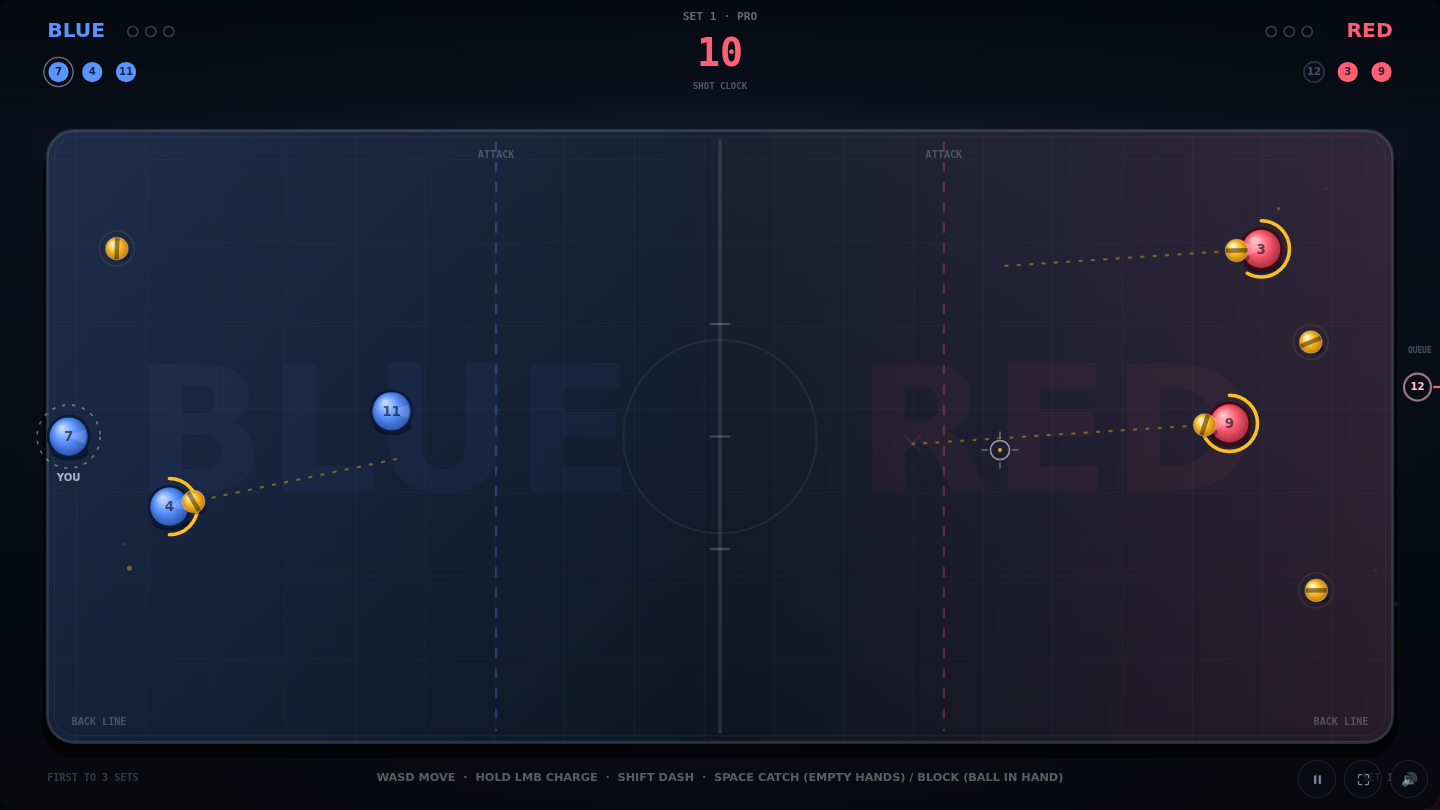
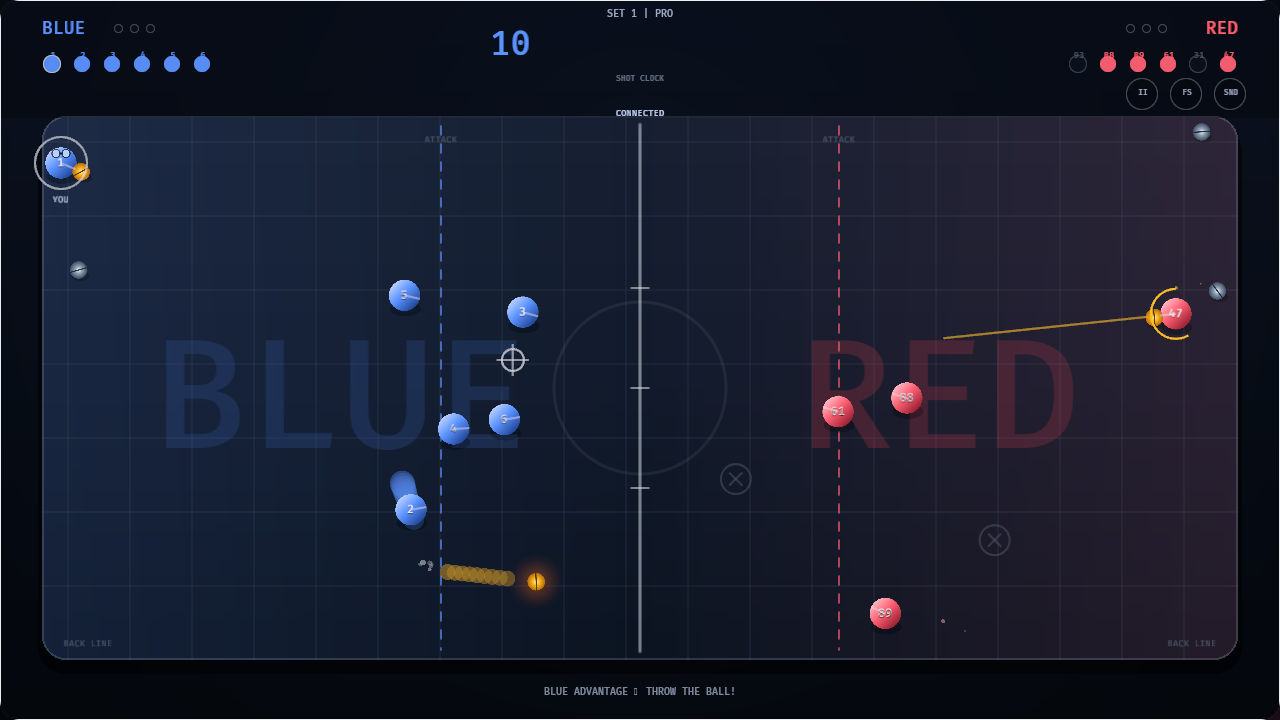
Document the restored audio and refresh the gameplay screenshot
MIGRATION_STATUS.md now records the devenv migration that happened after the
prediction work, the audio implementation, the browser CDP verification and
the remaining device-testing follow-ups. The screenshot is a current Bevy
capture instead of the deleted Canvas client.

diff --git a/MIGRATION_STATUS.md b/MIGRATION_STATUS.md
@@ -1,6 +1,7 @@
 # Rust/Bevy migration status — paused
 
-Last updated: after adding local-player/ball prediction and reconciliation.
+Last updated: after restoring generated sound effects and migrating the dev
+shell to devenv.
 
 ## Goal
 
@@ -26,11 +27,30 @@ SpacetimeDB module in `crates/server`.
 - Added `crates/client-web` — wasm `cdylib` entry.
 - Added `default-members = ["crates/sim", "crates/server"]`.
 - Bumped SpacetimeDB module crate and Rust client SDK to `=2.16.3`.
-- Added native build dependencies to `flake.nix`:
+- Added native build dependencies to the dev shell (`devenv.nix`):
   `pkg-config`, `wayland`, `libxkbcommon`, `openssl`, `systemd`.
 - Updated the Rust workspace release profile to remove the previous
   `strip = "symbols"` wasm-bindgen warning.
 - Updated `pnpm-lock.yaml`; removed the old web `spacetimedb` npm dependency.
+
+### Dev shell / devenv
+
+- Replaced the hand-written `pkgs.mkShell` with `devenv.lib.mkShell`; the shell
+  configuration lives in `devenv.nix` and `nix/spacetime.nix`.
+- `.envrc` uses `use flake . --no-pure-eval` because devenv resolves
+  `devenv.root` from `$PWD`.
+- `services.spacetime` installs the pinned SpacetimeDB CLI/server (2.16.3) and
+  `devenv up` starts a local server on port 3000.
+- Restored `wasm-bindgen-cli` 0.2.130 to the dev shell (it had been dropped in
+  an earlier commit), so `pnpm web:wasm`, `pnpm dev:client` and `pnpm build` work
+  from a clean shell again.
+- Added `alsa-lib` on Linux for native Bevy audio; the desktop CI installs
+  `libasound2-dev` for the same reason.
+- Updated the stale flake description that still mentioned a TypeScript canvas
+  presentation.
+- `scripts/build-web-wasm.sh` now maps `PROFILE=dev` to Cargo's `debug/`
+  directory and no longer requires a manually supplied `WASM_BINDGEN` path when
+  run inside the dev shell.
 
 ### Simulation DTOs
 
@@ -67,6 +87,26 @@ SpacetimeDB module in `crates/server`.
 - Enabled required Bevy features: `keyboard`, `mouse`, `touch`, `png`,
   `bevy_audio` is **not** enabled (see remaining work).
 
+### Audio
+
+- Added `crates/client/src/audio/`:
+  - `synth.rs` renders tones, filtered hiss and exponential envelopes into mono
+    16-bit 44.1 kHz WAV buffers, reproducing the old WebAudio synth;
+  - `voices.rs` defines every game voice from `synth.rs` and pre-renders four
+    loudness variants each for throws and bounces, plus both beep pitches;
+  - `mod.rs` owns the `SoundBank` resource and maps each `SfxEvent` to an
+    `AudioPlayer` spawned with `PlaybackSettings::DESPAWN`.
+- Enabled Bevy `bevy_audio` + `wav` features; no audio files are shipped.
+- `net::read_game_events` now deserialises `game_event.data` as `SfxEvent` and
+  plays it, keeping the existing `DODGEBALL_LOG_EVENTS` debug log.
+- UI button presses play the `ui` clip; toggling mute persists through
+  `platform.rs` and skips all playback, including the headshot call.
+- Browser builds keep the spoken "HEADSHOT" via `speechSynthesis`; native builds
+  play the synth scream only.
+- `apps/web/src/main.ts` tracks every `AudioContext` created by the wasm/rodio
+  backend and resumes suspended contexts on pointer/key gestures, because
+  browsers block audio until the first interaction.
+
 ### Client prediction / netcode
 
 - Added `crates/client/src/predict.rs`:
@@ -84,7 +124,8 @@ SpacetimeDB module in `crates/server`.
 
 ### Browser shell
 
-- `apps/web/src/main.ts` now only initializes wasm and calls
+- `apps/web/src/main.ts` loads the wasm glue dynamically after installing the
+  audio-context tracking patch, then calls
   `start(uri, db, name, muted, autostart)`.
 - Deleted the old TypeScript game renderer/UI/input/online code:
   `apps/web/src/game/` and `apps/web/src/module_bindings/`.
@@ -124,28 +165,46 @@ SpacetimeDB module in `crates/server`.
   original filled-trail look better.
 - Removed temporary web-only UI/frame debug dumps. Intentional debug aids
   remain: `DODGEBALL_AUTOSTART`, `DODGEBALL_SCREENSHOT`, `?autostart=1`,
-  `RUST_LOG=debug`.
+  `DODGEBALL_LOG_EVENTS`, `window.__dodgeball`, `RUST_LOG=debug`.
 
 ### Verification performed
 
-- `cargo test -p dodgeball-sim -p dodgeball-server` — all tests pass.
-- `cargo check -p dodgeball-client -p dodgeball-client-desktop` — passes.
+- `cargo test --workspace` — all tests pass, including 8 client tests for the
+  synth, voice bank and input prediction.
 - `cargo check -p dodgeball-client-web --target wasm32-unknown-unknown` —
-  passes.
+  passes with Bevy audio enabled.
+- `cargo check -p dodgeball-client -p dodgeball-client-desktop` — passes.
+- `apps/web` `tsc --noEmit` — passes once the wasm glue exists (the dev shell
+  now provides the matching `wasm-bindgen`).
+- Dev-profile wasm build + Vite + headless Chromium rendered the menu with the
+  audio plugin initialised (`/tmp/menu-audio.png`). No SpacetimeDB server was
+  running, so the connection showed the expected `ONLINE | ERROR` state.
+- Native builds on this machine needed `NIX_CFLAGS_LINK=` cleared because the
+  host's nix-ld `/usr/lib` symlinks point at glibc 2.42 while the unstable
+  `alsa-lib` needs 2.44. This is a local NixOS environment quirk, not a repo
+  change.
+- `cargo test -p dodgeball-sim -p dodgeball-server` — all tests pass.
 - The new client crates are formatted. Existing simulation files were left in their prior formatting to keep this migration diff focused.
-- `pnpm typecheck` — passes.
+- `pnpm typecheck` — passes with the generated wasm glue present.
 - Native desktop launched against a local SpacetimeDB server and rendered a
   playing match (software Vulkan/llvmpipe in this environment).
 - Browser launched headlessly in Chromium against the local server and rendered
   a playing match.
 - Browser CDP click test successfully started a match.
 - Latest production wasm build:
-  - `apps/web/src/wasm/dodgeball_client_bg.wasm`: ~20.3 MB
-  - Vite gzip report: ~6.3 MB
-  - Vite JS bundle: ~56 KB.
+  - `apps/web/src/wasm/dodgeball_client_bg.wasm`: ~20.7 MB
+  - Vite gzip report: ~6.5 MB
+  - Vite JS bundle: ~58 KB.
+- Audio added roughly 0.4 MB to the wasm bundle and 0.2 MB gzip
+  (`bevy_audio`, `rodio`, `hound`, `cpal`).
 - Latest successful screenshots:
   - native playing match: `/tmp/game4.png`;
-  - browser playing match: `/tmp/web_click_final.png`.
+  - browser playing match: `/tmp/web_click_final.png`;
+  - browser playing match with audio enabled: `/tmp/game-audio-playing.png`;
+  - `docs/screenshot.png` replaced with the 1280x720 Bevy capture.
+- Browser CDP gesture test against a local server: `AudioContext.state` was
+  `suspended` at startup and became `running` after a synthetic click, while the
+  playing match rendered normally.
 
 ### CI / docs
 
@@ -154,36 +213,27 @@ SpacetimeDB module in `crates/server`.
   builds.
 - README rewritten for Rust/Bevy, browser + desktop, 2.16.3, and new commands.
 - Added this status file.
+- Replaced the stale Canvas `docs/screenshot.png` with a current Bevy capture.
 
 ---
 
 ## Remaining work
 
-### 1. Audio (largest feature gap)
+### 1. Audio follow-ups (feature complete)
 
-The old TypeScript WebAudio synth was deleted with the Canvas client. The Bevy
-client currently has **no sound**. The top-bar sound button toggles a resource
-but there is no output.
+The Bevy client now synthesises and plays every `SfxEvent`. Remaining work is
+verification and polish rather than implementation:
 
-Options:
+- confirm sound on a real audio device for native Linux/Windows/macOS;
+- confirm the browser unlock flow in Chrome, Firefox and Safari, including a
+  gesture that happens while the wasm module is still loading;
+- check `speechSynthesis` availability/voice differences for HEADSHOT and
+  decide whether to keep it or bundle a clip;
+- consider a volume control (currently mute/on only) and whether `GlobalVolume`
+  should be used for sounds already playing.
 
-- **Bevy audio + generated WAVs (recommended):**
-  - enable Bevy `bevy_audio` + `wav`;
-  - add `pkgs.alsa-lib` to `flake.nix` / Linux CI;
-  - synthesize small WAV buffers at startup for `throw`, `hit`, `headshot`,
-    `catch`, `block`, `pickup`, `bounce`, `dash`, `beep`, `whistle`,
-    `roundWin`, `roundLose`, `matchWin`, `matchLose`, `ui`;
-  - parse `game_event.data` as `SfxEvent` and spawn `AudioPlayer` entities;
-  - apply mute through a global volume/resource;
-  - browser audio unlock on first pointer/key gesture;
-  - decide whether to keep browser `SpeechSynthesis` for HEADSHOT or ship a
-    short voice clip.
-- Or a platform-specific audio bridge:
-  - web: JS WebAudio;
-  - desktop: `rodio`/`cpal`.
-  This avoids Bevy audio but creates two implementations.
-
-Also update README/top-bar once sound exists or hide/remove the sound control.
+Measured wasm cost of audio: ~20.7 MB total / ~6.5 MB gzip, up from ~20.3 MB /
+~6.3 MB before `bevy_audio`.
 
 ### 2. Real-device / real-GPU testing
 
@@ -232,7 +282,6 @@ Still needed:
 - Check `pnpm check` with the new `rust:check:wasm` package selection.
 - Consider a separate client release profile to keep native Bevy optimized while
   using `opt-level="z"` for wasm.
-- Remove/replace stale `docs/screenshot.png` (still an old Canvas screenshot).
 
 ### 5. Code quality / cleanup
 
@@ -253,7 +302,7 @@ Still needed:
 
 ### 6. Performance / size
 
-- 20.3 MB wasm / 6.3 MB gzip is large. Already enabled only the needed Bevy
+- 20.7 MB wasm / 6.5 MB gzip is large. Already enabled only the needed Bevy
   features, but further pruning may be possible:
   - inspect `cargo tree -e features -p dodgeball-client`;
   - consider removing gizmos if dynamic outlines are moved to sprites;
@@ -288,7 +337,7 @@ cargo test -p dodgeball-sim -p dodgeball-server
 cargo check -p dodgeball-client-web --target wasm32-unknown-unknown
 
 # Browser wasm + Vite
-WASM_BINDGEN=/tmp/wasm-bindgen/bin/wasm-bindgen bash scripts/build-web-wasm.sh
+PROFILE=dev bash scripts/build-web-wasm.sh   # fast local builds; default release
 (cd apps/web && pnpm exec vite build)
 (cd apps/web && pnpm exec vite preview --host 127.0.0.1 --port 4173)
 
@@ -302,7 +351,8 @@ DODGEBALL_AUTOSTART=1 DODGEBALL_SCREENSHOT=/tmp/game.png \
 
 ## Definition of done still to reach
 
-- Sound is restored or intentionally removed from UI/README.
+- Sound is restored; real-device and browser-autoplay verification is still
+  outstanding.
 - Real browser + real desktop input/touch/fullscreen/name editing verified.
 - CI browser and desktop builds are green.
 - No stale Canvas/TypeScript references or dead generated artifacts remain.

diff --git a/README.md b/README.md
@@ -19,11 +19,15 @@ ten-second advantage clock.
 - All game art and UI are rendered by Bevy. There is no Canvas 2D renderer and
   no DOM widget layer.
 - Procedural textures, court art, effects and HUD; zero external art assets.
+- Procedural sound: every effect is synthesised to a WAV buffer at startup, so the
+  game ships with zero audio files.
 - Match/round flow modelled as **ECS state** — a `phase` resource plus a
   transition table.
 - Deterministic, seeded simulation: `cargo test` drives full matches headlessly.
 
-Audio parity is still a follow-up; see [MIGRATION_STATUS.md](MIGRATION_STATUS.md).
+Sound is generated at runtime and the browser unlocks audio on the first
+pointer/key event; see [MIGRATION_STATUS.md](MIGRATION_STATUS.md) for the
+remaining device-testing follow-ups.
 
 ---
 
@@ -148,6 +152,9 @@ Everything visual lives under `crates/client/src`:
 - `render/world.rs` keeps stable sprite entities per player/ball, syncs them
   from the interpolated frame and draws dynamic outlines with Bevy gizmos.
 - `render/effects.rs` pools particles/floaters and applies camera shake.
+- `audio/` synthesises every sound effect as a WAV at startup and plays the
+  simulation's `SfxEvent`s through Bevy audio (the browser adds the spoken
+  "HEADSHOT" call via `speechSynthesis`).
 - `ui/mod.rs` builds the entire interface with Bevy UI: HUD, roster, score,
   menus, pause/results/rules, touch controls, rotate overlay, name editing and
   the flash overlay.
@@ -245,7 +252,7 @@ GitHub Pages, set the repository variables `SPACETIME_URI` and `SPACETIME_DB`.
 
 Requirements: Node 20+, pnpm 10, Rust 1.97.1 with the
 `wasm32-unknown-unknown` target, and `wasm-bindgen-cli` **0.2.130** matching the
-lockfile.
+lockfile. The Nix dev shell provides these, including `wasm-bindgen-cli`.
 
 ```bash
 pnpm install
@@ -288,9 +295,9 @@ DODGEBALL_MUTED=0
 DODGEBALL_AUTOSTART=1
 ```
 
-On Linux, the desktop target needs X11/Wayland development libraries at build
-time and working GPU drivers at runtime. The Nix dev shell includes the build
-dependencies.
+On Linux, the desktop target needs X11/Wayland development libraries, ALSA
+headers (`libasound2-dev` on Debian/Ubuntu) at build time and working GPU/audio
+drivers at runtime. The Nix dev shell includes the build dependencies.
 
 ---
 
@@ -331,6 +338,7 @@ crates/
 ├── server/               # SpacetimeDB module
 ├── client/               # shared Bevy app
 │   └── src/
+│       ├── audio/        # generated sound effects
 │       ├── render/       # court, players, balls, textures, effects
 │       ├── ui/           # HUD, menus, touch controls
 │       ├── input.rs
